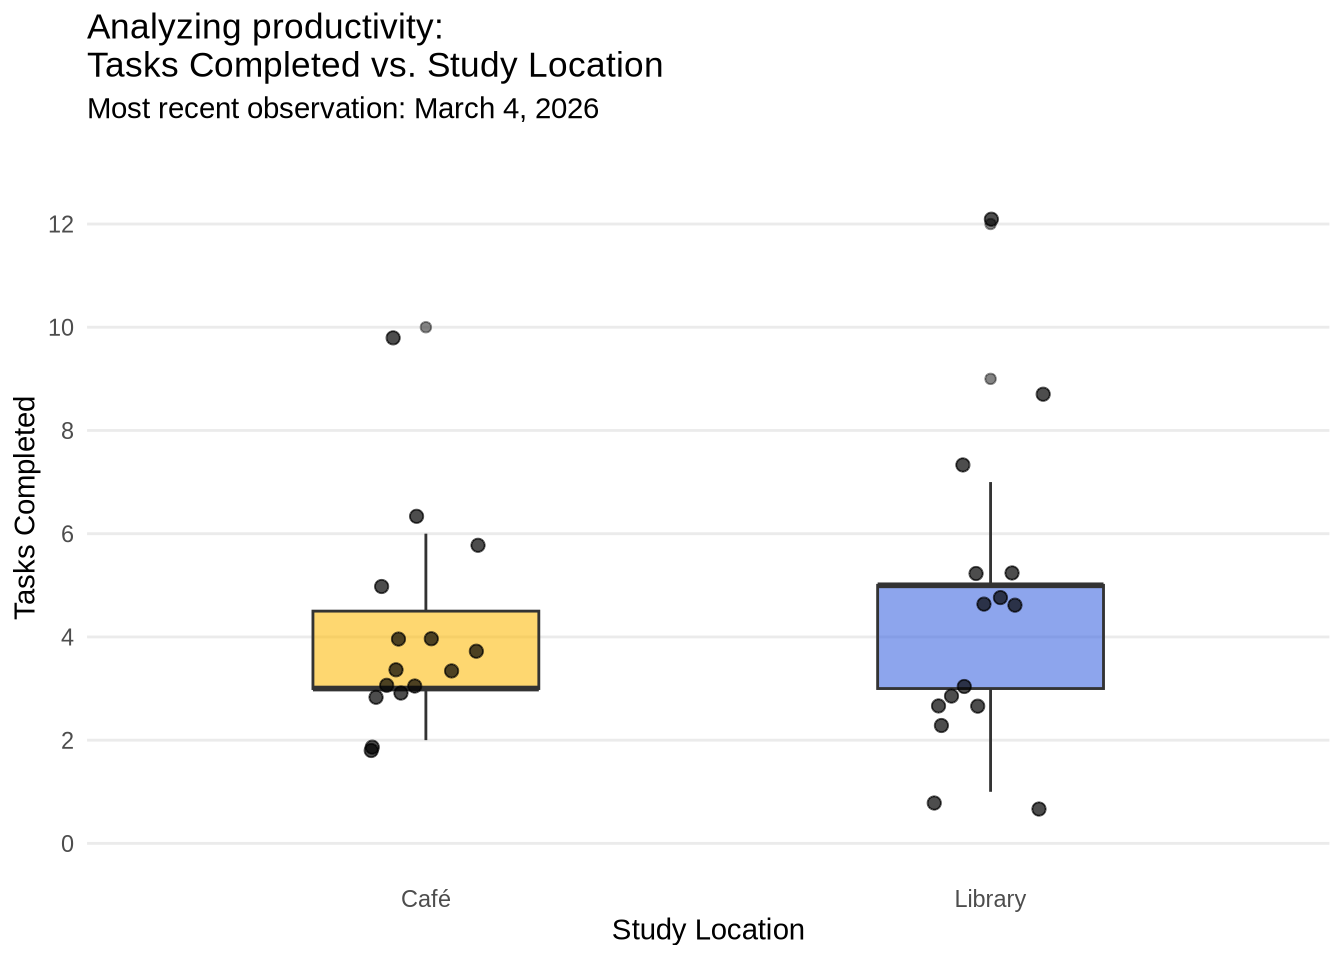
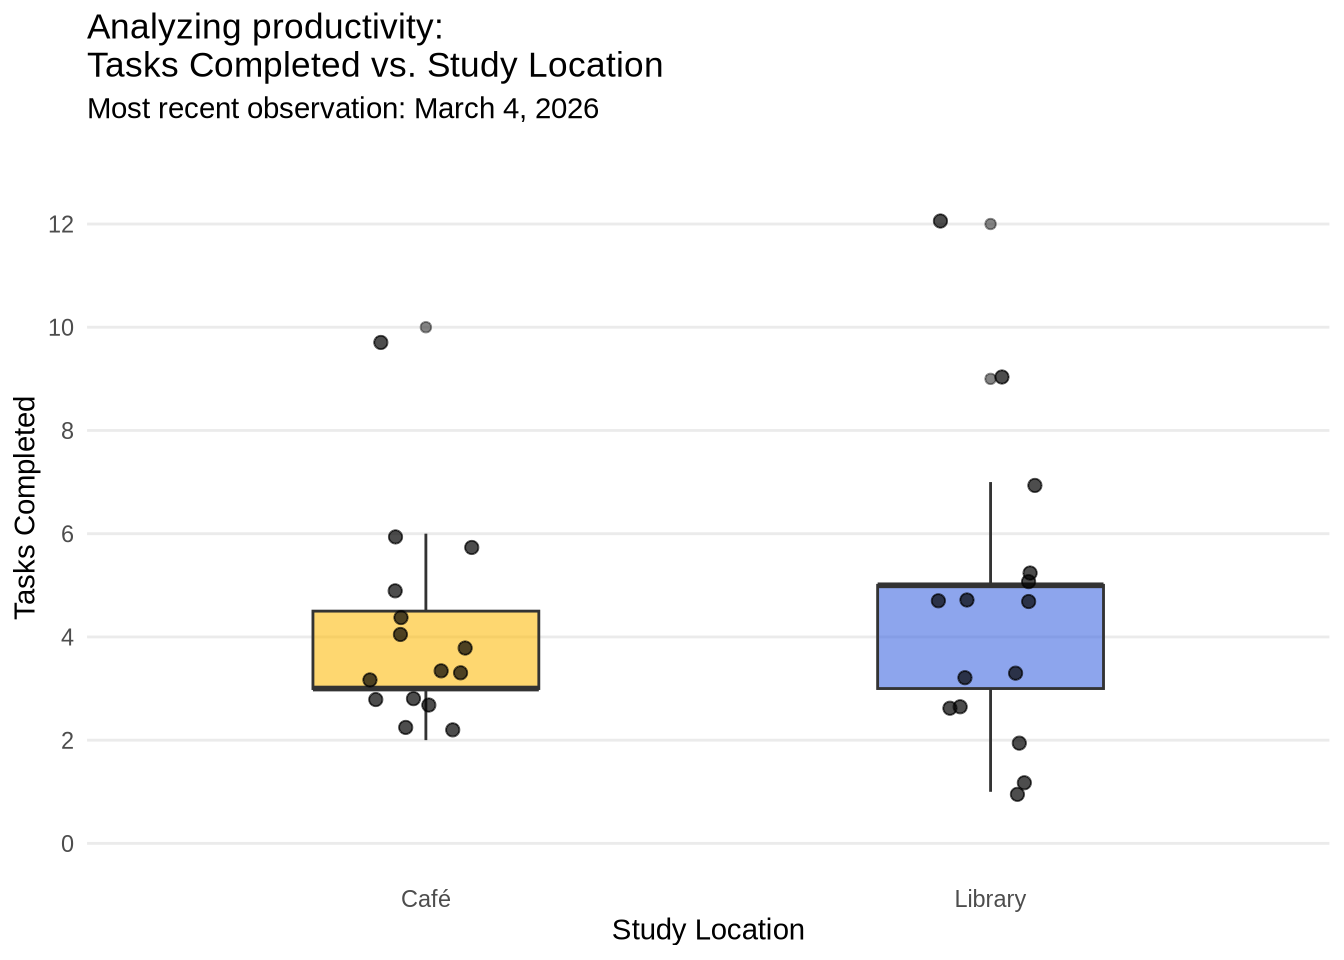
change 1f for resubmission

diff --git a/code/homework_03.html b/code/homework_03.html
@@ -70,7 +70,7 @@ pre > code.sourceCode > span > a:first-child::before { text-decoration: underlin
 <link href="homework_03_files/libs/quarto-html/quarto-syntax-highlighting-37eea08aefeeee20ff55810ff984fec1.css" rel="stylesheet" id="quarto-text-highlighting-styles">
 <script src="homework_03_files/libs/bootstrap/bootstrap.min.js"></script>
 <link href="homework_03_files/libs/bootstrap/bootstrap-icons.css" rel="stylesheet">
-<link href="homework_03_files/libs/bootstrap/bootstrap-f587f7f4293d47f68ac89e56eb41b7e5.min.css" rel="stylesheet" append-hash="true" id="quarto-bootstrap" data-mode="light">
+<link href="homework_03_files/libs/bootstrap/bootstrap-8a90b9f5b4ffc9e7e842c6f615795ee6.min.css" rel="stylesheet" append-hash="true" id="quarto-bootstrap" data-mode="light">
 
 
 </head>
@@ -317,7 +317,7 @@ sample estimates:
 0.5928854 </code></pre>
 </div>
 </div>
-<p>To evaluate the strength of the relationship between pickleweed biomass and soil salinity, I used a Spearman’s rank correlation rho. We found a moderate relationship between soil salinity and pickleweed biomass (Spearman ρ = 0.59, S = 824, p = 0.003, α = 0.05), which suggests that pickleweed biomass tends to increase as soil salinity increases along the slough. Both tests agree that the relationship is moderate and positive, so the result is robust with both correlation methods.</p>
+<p>To evaluate the strength of the relationship between pickleweed biomass and soil salinity, I used a Spearman’s rank correlation rho. We found a moderate relationship between soil salinity and pickleweed biomass (Spearman ρ = 0.59, S = 824, p = 0.003, α = 0.05), which suggests that pickleweed biomass tends to increase as soil salinity increases along the slough. Both the Pearson’s product-moment correlation (r = 0.53) and Spearman’s rank correlation rho(ρ = 0.59) found a moderate positive relationship between soil salinity and pickleweed biomass, which confirms that the result is robust and uniform with both correlation methods.</p>
 </section>
 </section>
 <section id="problem-2.-personal-data" class="level1">
